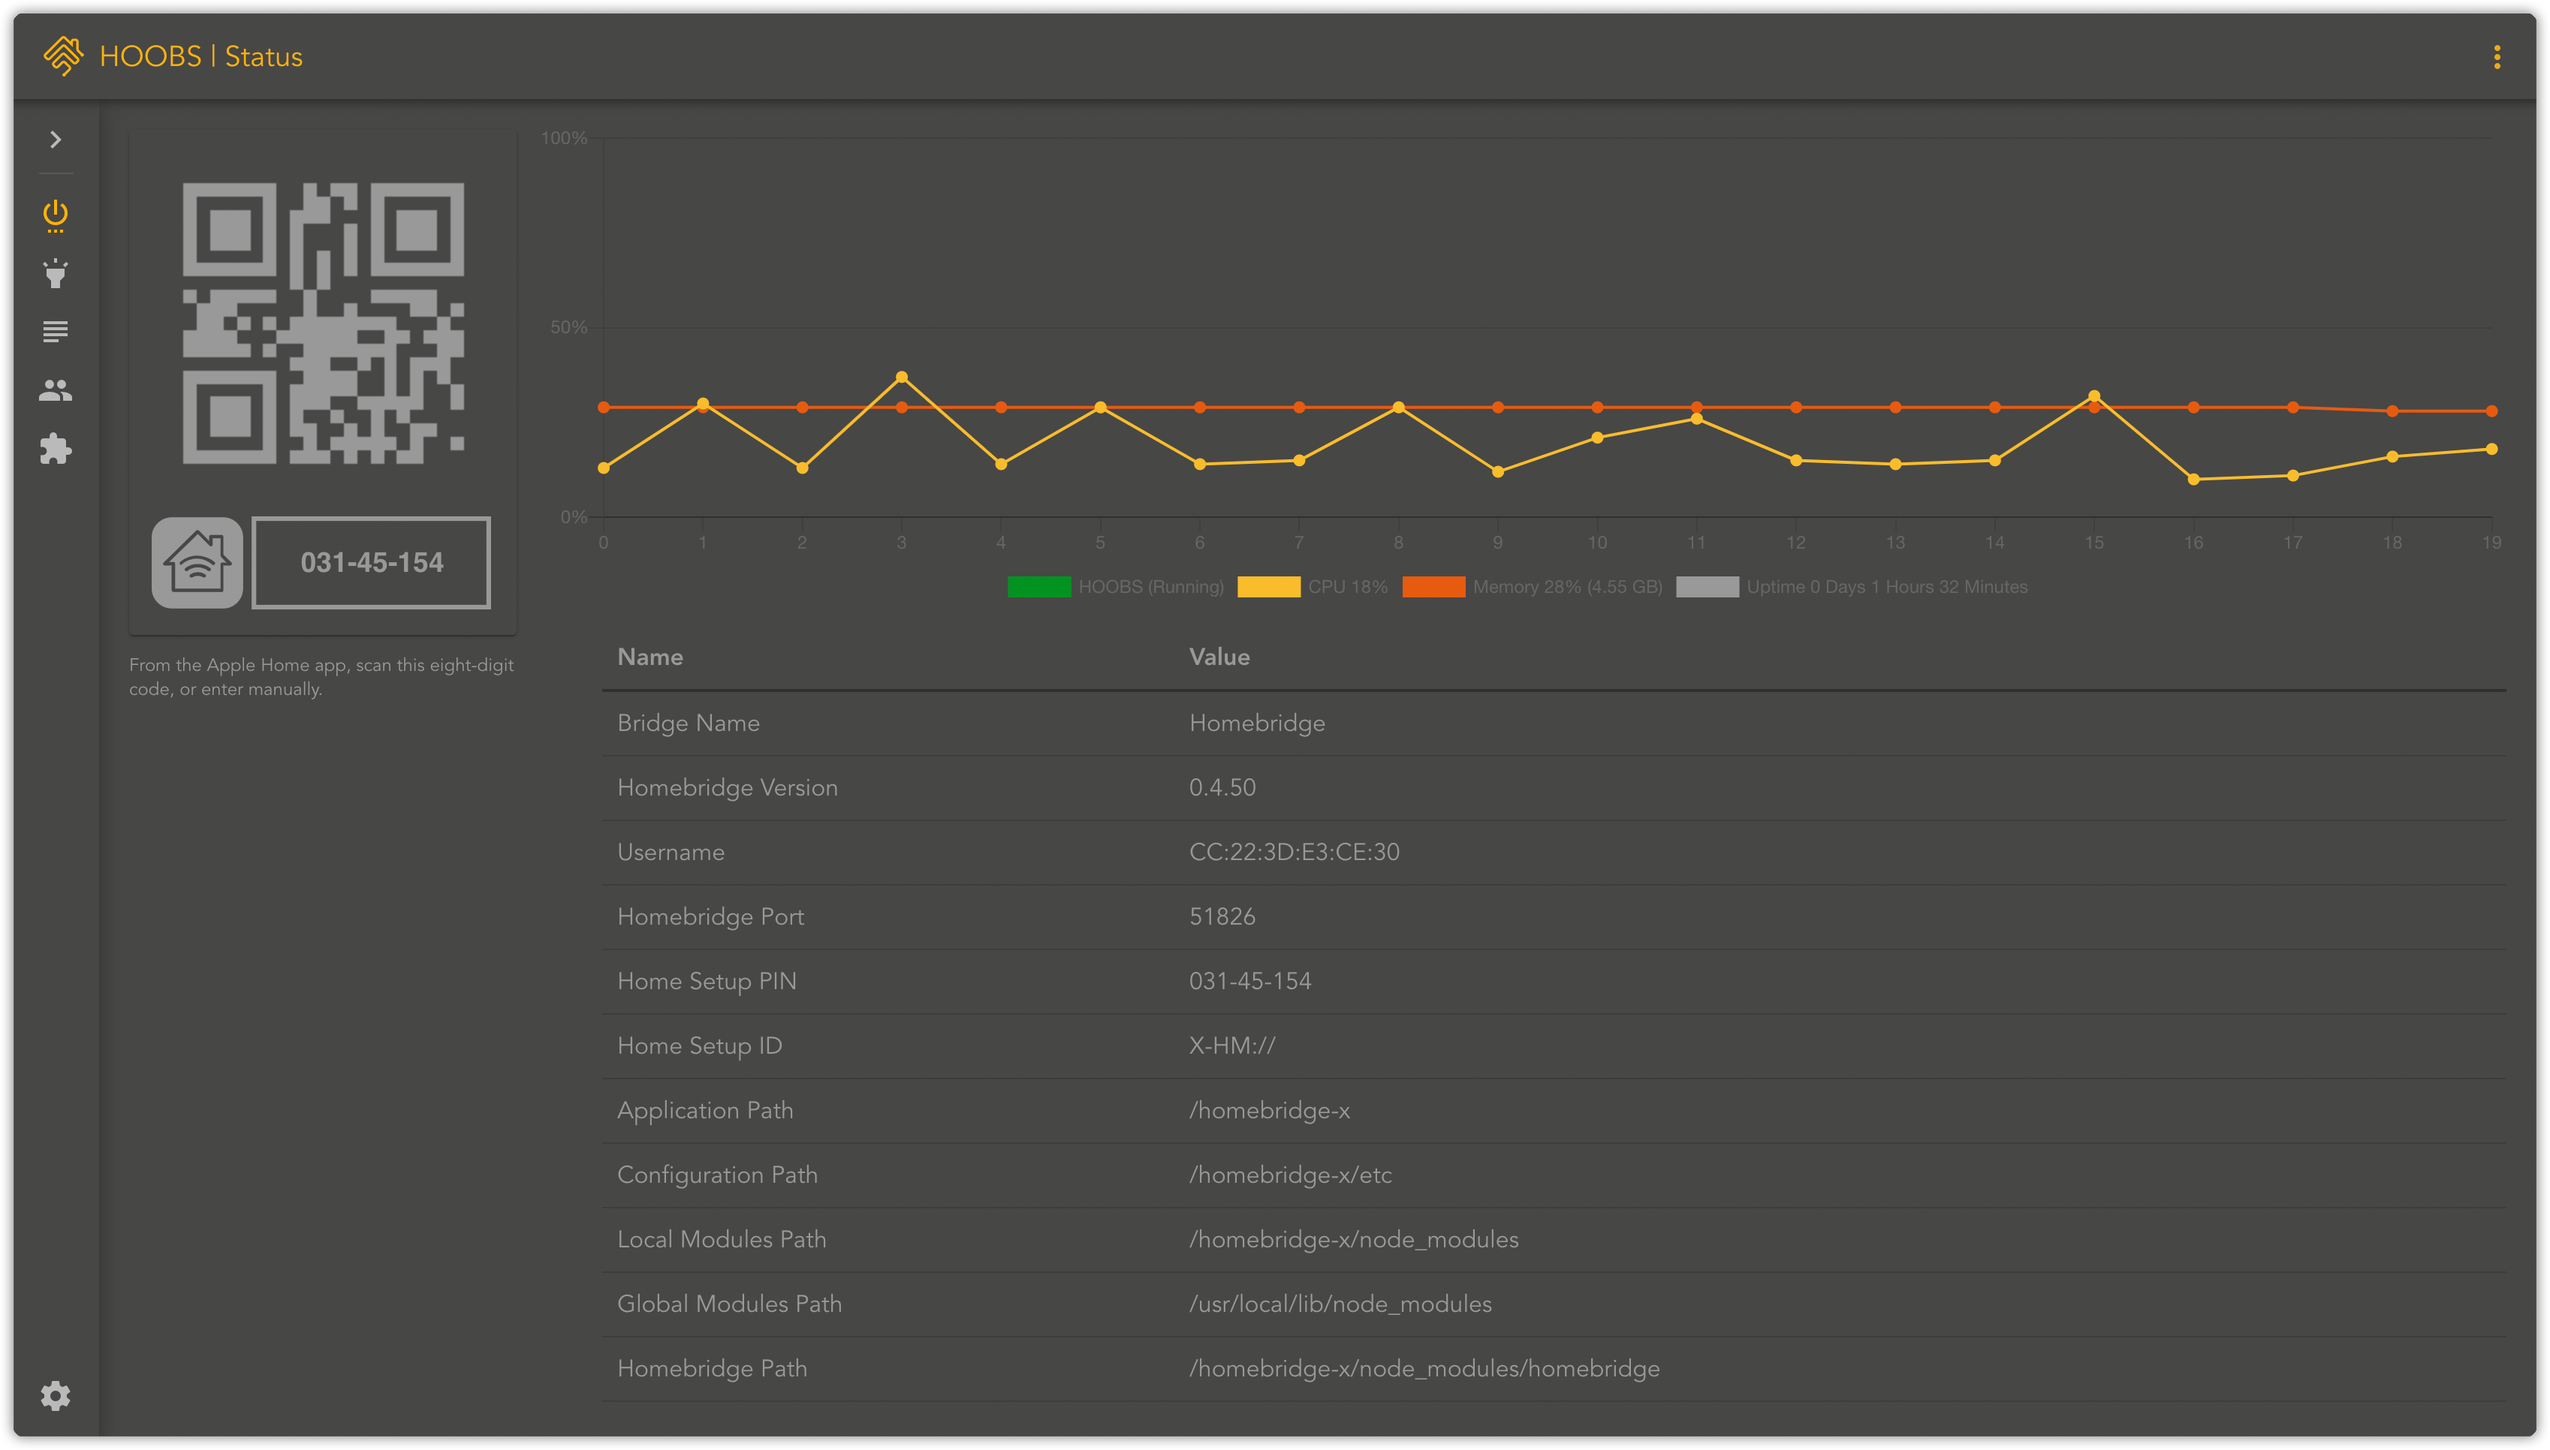
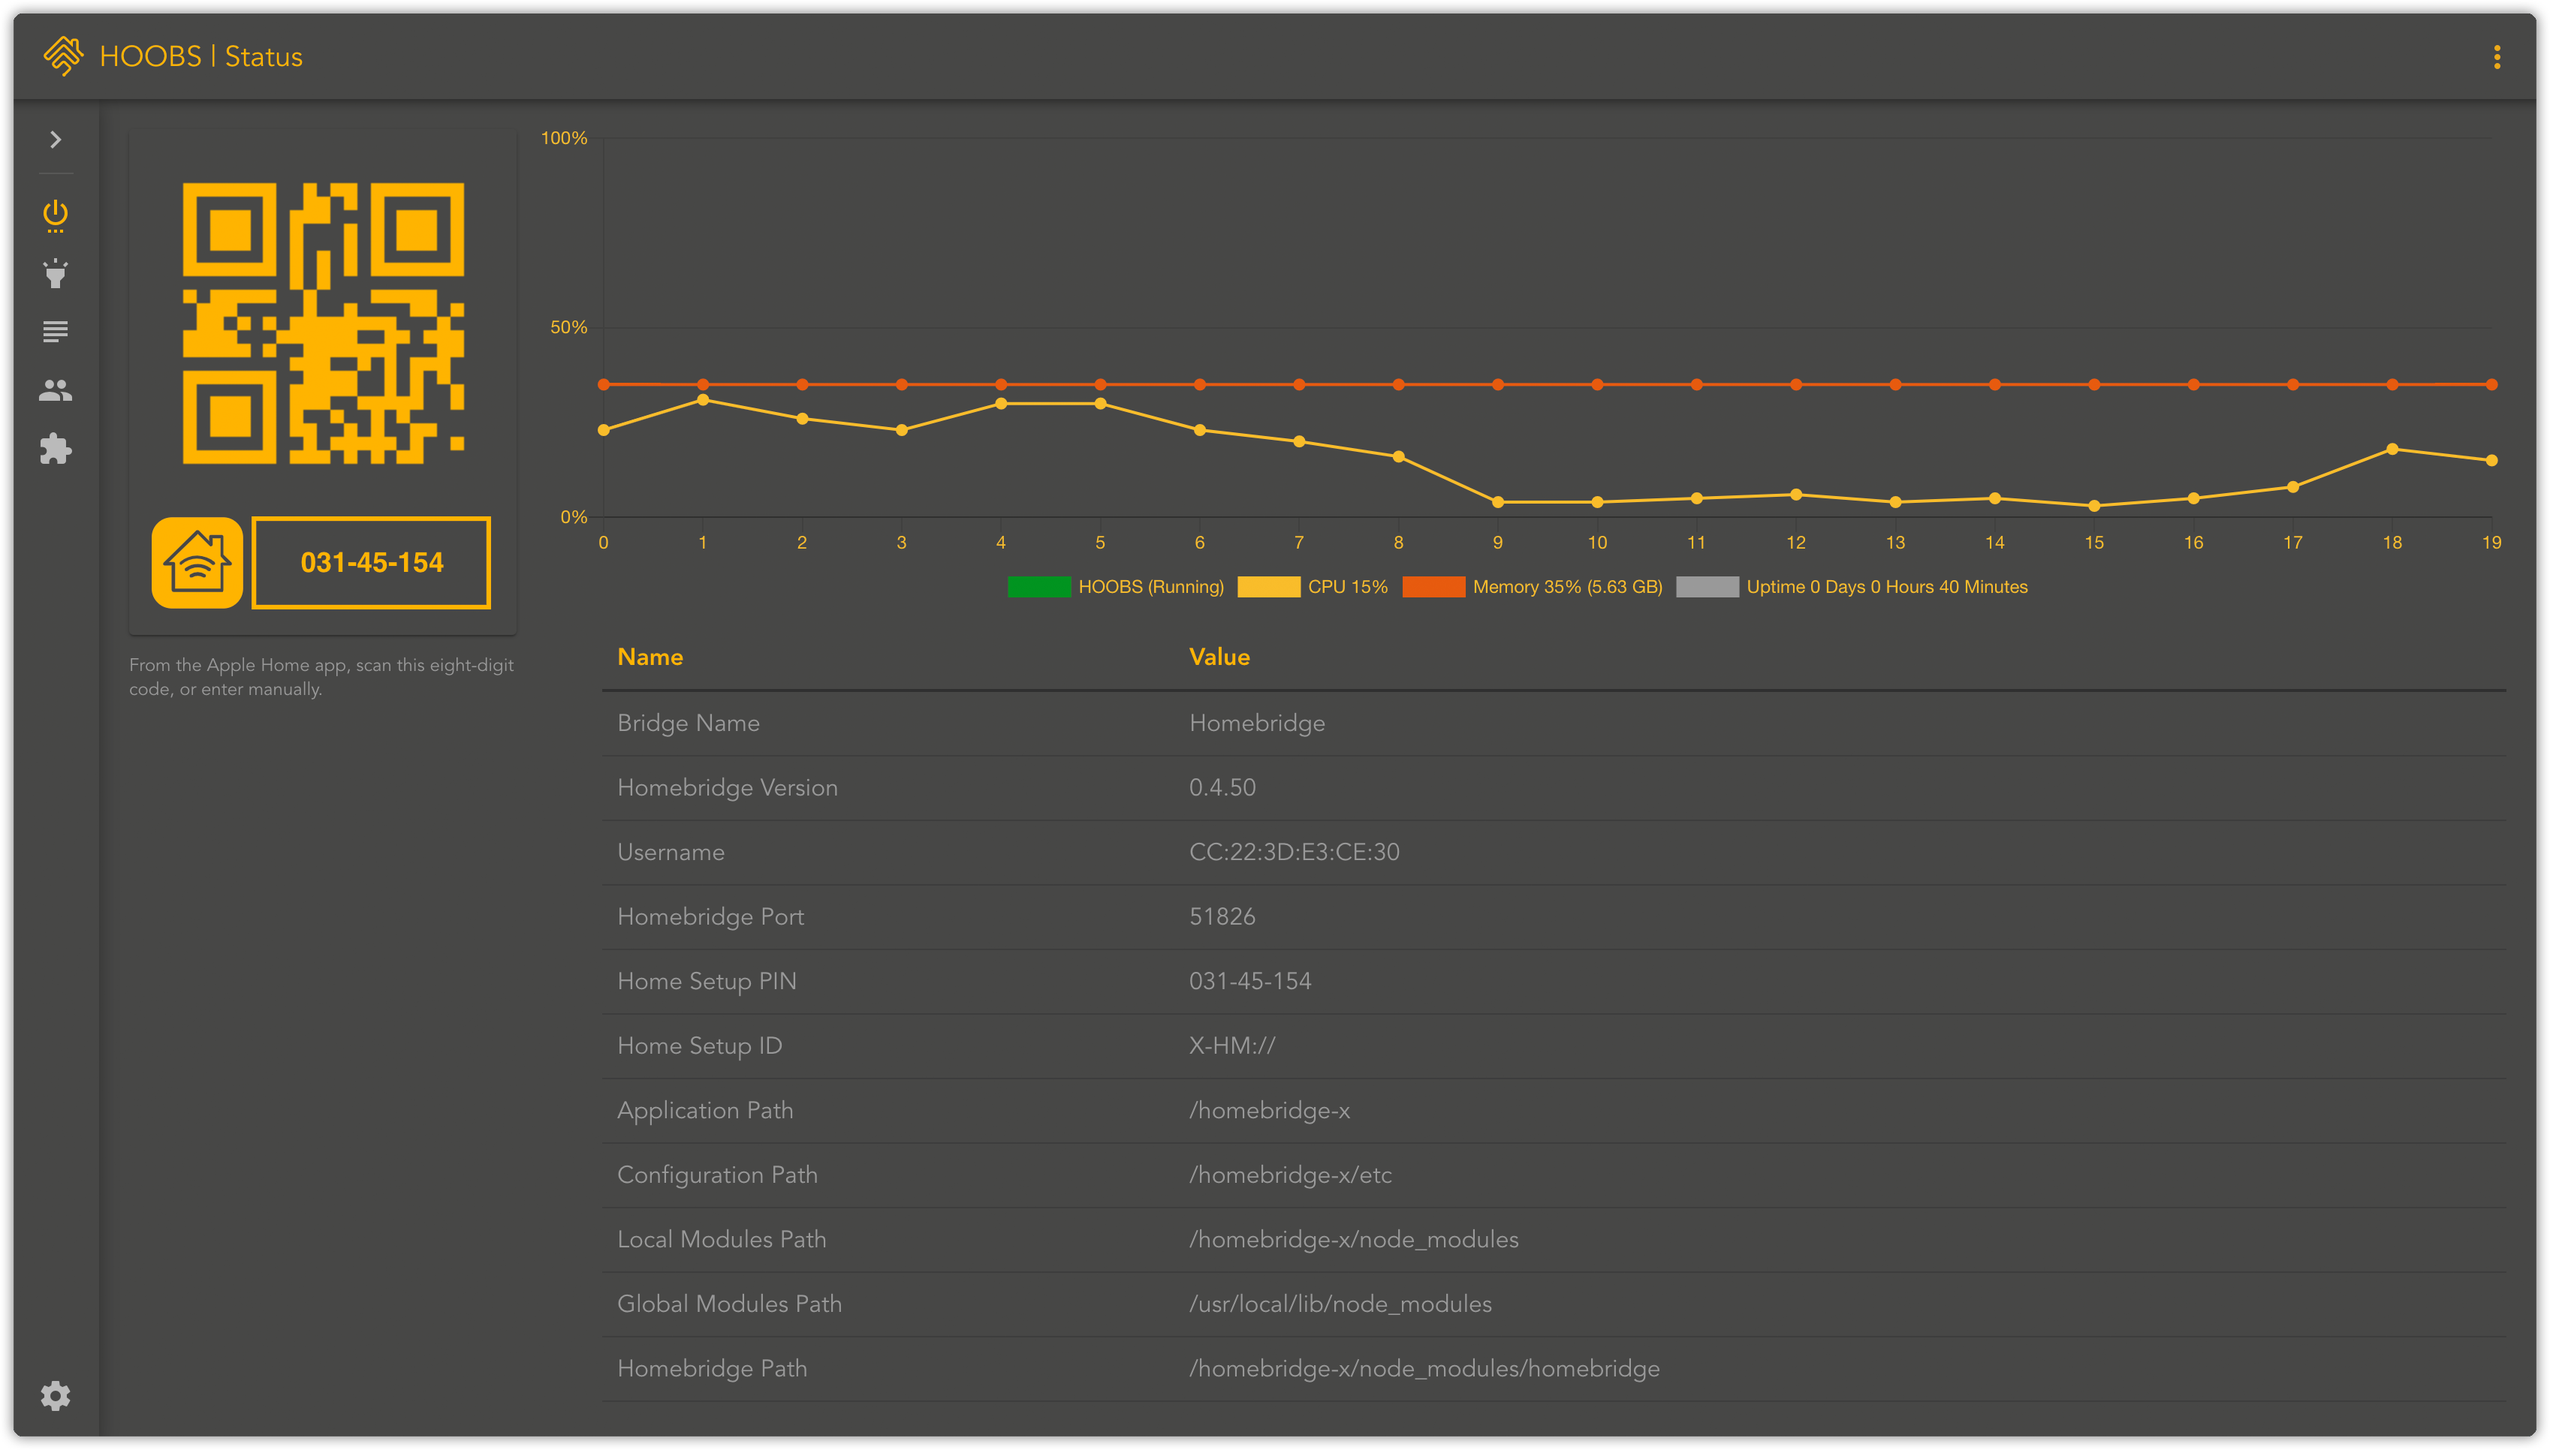
finish dark mode with self managed charts

diff --git a/src/graphing.js b/src/graphing.js
@@ -1,6 +1,7 @@
 import Chartkick from "chartkick";
 import DeepEqual from "deep-equal";
 import DeepMerge from "deepmerge";
+import Config from "../etc/config.json";
 
 let chartId = 1;
 
@@ -68,7 +69,7 @@ let createComponent = function (Vue, tagName, chartType) {
                     lineHeight: this.height || "300px",
                     width: this.width || "100%",
                     textAlign: "center",
-                    color: "#999",
+                    color: (Config.client.theme || "hoobs-light").endsWith("dark") ? "#feb400" : "#999999",
                     fontSize: "14px",
                     fontFamily: "'Lucida Grande', 'Lucida Sans Unicode', Verdana, Arial, Helvetica, sans-serif"
                 };

diff --git a/src/main.js b/src/main.js
@@ -14,6 +14,8 @@ import Themes from "./themes/themes";
 
 import Config from "../etc/config.json";
 
+Chart.defaults.global.defaultFontColor = (Config.client.theme || "hoobs-light").startsWith("hoobs") ? "#f9bd2b" : "#515151";
+
 Vue.mixin({
     data: () => {
         return {

diff --git a/src/components/setup-pin.vue b/src/components/setup-pin.vue
@@ -67,7 +67,7 @@
     }
 
     #pin .svg-code {
-        fill: var(--text);
+        fill: var(--pin-color);
         font-weight: bold;
         font-size: 788.476px;
         font-family: Helvetica;

diff --git a/src/views/status.vue b/src/views/status.vue
@@ -160,6 +160,7 @@
         padding: 10px;
         text-align: left;
         border-bottom: 2px var(--border-dark) solid;
+        color: var(--pin-color);
     }
 
     #status .details table td {

diff --git a/src/views/plugin.vue b/src/views/plugin.vue
@@ -352,6 +352,7 @@
         padding: 10px;
         text-align: left;
         border-bottom: 1px var(--border-dark) solid;
+        color: var(--pin-color);
     }
 
     #markdown table td {

diff --git a/src/router.js b/src/router.js
@@ -1,6 +1,5 @@
 import Vue from "vue";
 import Router from "vue-router";
-
 import Plugins from "../etc/plugins.json";
 import Config from "../etc/config.json";
 
